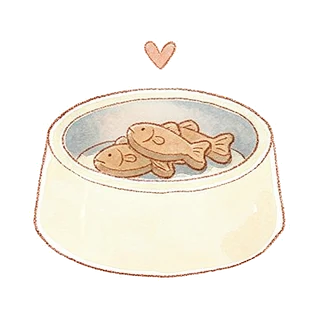
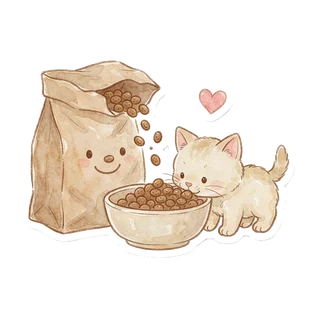
等待页背景图 + 公益磁贴换画 + 换算 100g/元 + 修雨天弹层失踪
- 等待页按用户方向加背景：AI 生成水彩街景（裁水印压 41KB WebP）。
  预演页白渐变+淡街景；等待页白纱减淡；催单卡同铺（白纱压住保可读）
- 真 bug：根元素天气 filter 让 position:fixed 退化成相对整页定位 ——
  雨天催单卡/骑手回话被排到视口外。两弹层改 createPortal 到 body（skill 坑点 70）
- 公益磁贴按用户反馈换画：笑脸粮袋+小猫吃粮+小粉心（tileForge 出 320 透明底）
- 公益换算 10g/元 → 100g/元（用户定）；说明文案与注释同步
- 档案页示例条：大海报缩成「小图+两行说明」条（96px 图），可点开看大图
- check-preview 修探针：lazy 图在 headless 滚动下不触发是常态，
  「坏图」改 fetch 验 HTTP 而非 naturalWidth（skill 坑点 71）

diff --git a/src/styles.css b/src/styles.css
@@ -50,6 +50,22 @@ img { max-width: 100%; display: block; }
   padding-bottom: 96px;
 }
 
+/* 配送等待页：水彩街景背景（用户 2026-09-17 定的方向）。
+   图锚在底部（街道在画面下沿），宽随栏；页比图长时上段露米色渐变，正好是留白。
+   预演页白纱重（只透一点街景 + 白→米渐变），等待页白纱减淡让街景透出来。 */
+.delivery-page {
+  background:
+    linear-gradient(180deg, rgba(253, 252, 249, .96) 0%, rgba(252, 251, 247, .82) 45%, rgba(250, 244, 232, .45) 100%),
+    url('./assets/delivery-street.webp') bottom center / 100% auto no-repeat,
+    linear-gradient(180deg, #fdfcf9, #f7efe1);
+}
+.delivery-page.is-waiting {
+  background:
+    linear-gradient(180deg, rgba(253, 252, 249, .92) 0%, rgba(252, 251, 247, .58) 42%, rgba(250, 244, 232, .2) 100%),
+    url('./assets/delivery-street.webp') bottom center / 100% auto no-repeat,
+    linear-gradient(180deg, #fdfcf9, #f7efe1);
+}
+
 .shop-page.center-content {
   display: flex;
   flex-direction: column;
@@ -1224,7 +1240,10 @@ img { max-width: 100%; display: block; }
   width: calc(100% - 40px);
   max-width: 420px;
   padding: 22px 20px 20px;
-  background: var(--surface);
+  /* 催单卡也铺同一张水彩街景（用户 2026-09-17）：白纱压住保证文字可读 */
+  background:
+    linear-gradient(180deg, rgba(253, 252, 249, .95), rgba(250, 244, 233, .9)),
+    url('./assets/delivery-street.webp') center bottom / 160% auto no-repeat;
   border-radius: 20px;
   box-shadow: 0 12px 40px rgba(74, 69, 64, .18);
   animation: cardUp .3s cubic-bezier(.2, .8, .3, 1) both;
@@ -1550,9 +1569,12 @@ img { max-width: 100%; display: block; }
 .secondary-action { display: inline-flex; align-items: center; gap: 6px; padding: 11px 16px; border-radius: 999px; border: 1px solid var(--caramel); background: transparent; color: var(--caramel); font-size: 13px; }
 .archive-actions .primary-action { display: inline-flex; align-items: center; gap: 6px; padding: 11px 18px; border-radius: 999px; background: var(--primary); color: #fff; font-size: 13px; }
 .archive-note { margin: 0 28px 24px; color: var(--text-sub); font-size: 11px; line-height: 1.6; text-align: center; }
-.archive-example { display: block; width: min(292px, calc(100% - 64px)); padding: 0; margin: 0 auto 17px; border: 0; background: transparent; }
-.archive-example img { display: block; width: 100%; aspect-ratio: 3/4; object-fit: cover; box-shadow: 0 8px 24px rgba(74, 69, 64, .1); }
-.archive-example span { display: block; margin-top: 9px; color: var(--text-sub); font-size: 10px; text-align: center; }
+/* 示例条：缩略图 + 两行说明，不再是一整屏海报（用户原话「放的太大、很突兀」） */
+.archive-example { display: flex; align-items: center; gap: 14px; width: calc(100% - 40px); max-width: 330px; padding: 11px 13px 11px 11px; margin: 0 auto 14px; border: 1px solid var(--divider); border-radius: 12px; background: rgba(252, 251, 247, .58); text-align: left; }
+.archive-example img { flex: 0 0 96px; width: 96px; aspect-ratio: 3/4; object-fit: cover; border-radius: 9px; box-shadow: 0 3px 10px rgba(74, 69, 64, .14); }
+.archive-example-txt { display: flex; flex-direction: column; gap: 4px; min-width: 0; }
+.archive-example-txt b { font: 500 13px/1.3 "Cormorant Garamond", "PingFang SC", serif; color: var(--text-main); }
+.archive-example-txt i { font: 400 10.5px/1.55 "PingFang SC", sans-serif; font-style: normal; color: var(--text-sub); }
 .upload-zone.compact { min-height: 98px; margin: 0 20px 20px; padding: 18px; display: flex; flex-direction: column; align-items: center; justify-content: center; gap: 6px; border: 1px dashed var(--caramel); border-radius: 12px; background: rgba(252, 251, 247, .58); color: var(--text-main); }
 .upload-zone.compact strong { font: 500 16px/1 "Cormorant Garamond", "PingFang SC", serif; }
 .upload-zone.compact span { font-size: 11px; color: var(--text-sub); }

diff --git a/src/screens/DeliveryScreen.jsx b/src/screens/DeliveryScreen.jsx
@@ -1,4 +1,5 @@
 import { useEffect, useMemo, useRef, useState } from 'react'
+import { createPortal } from 'react-dom'
 import { ArrowLeft, Bike, Check, FastForward, Home, Package, ShoppingBag, Truck, X } from 'lucide-react'
 import {
   OFFLINE_TASKS,
@@ -136,7 +137,7 @@ export default function DeliveryScreen({ houseName, onNavigate, order }) {
   const isWaiting = phase === 'waiting'
 
   return (
-    <div className="shop-page" style={{ filter: weather.filter }}>
+    <div className={`shop-page delivery-page${isWaiting ? ' is-waiting' : ''}`} style={{ filter: weather.filter }}>
       <header className="topbar compact">
         <button className="icon-button menu-button" aria-label="返回首页" onClick={() => onNavigate('home')}>
           <ArrowLeft size={25} strokeWidth={1.4} />
@@ -277,8 +278,10 @@ export default function DeliveryScreen({ houseName, onNavigate, order }) {
         </section>
       )}
 
-      {/* 催单卡：不是跳过，是有来有回 */}
-      {exchangeOpen && (
+      {/* 催单卡：不是跳过，是有来有回。
+          ⚠ 必须 portal 到 body：根元素挂着天气 filter，CSS 里 filter 祖先会让
+          position:fixed 退化成相对整页定位 —— 卡片会被排到整页最底部（视口外）。 */}
+      {exchangeOpen && createPortal(
         <div className="exchange-backdrop" role="dialog" aria-label="跟骑手说一句" onClick={() => setExchangeOpen(false)}>
           <div className="exchange-card" onClick={(e) => e.stopPropagation()}>
             <button className="exchange-close" aria-label="关闭" onClick={() => setExchangeOpen(false)}>
@@ -296,15 +299,17 @@ export default function DeliveryScreen({ houseName, onNavigate, order }) {
             </div>
             <p className="exchange-foot">不说也行 —— 陪他走完这一段，路上会多留一份纪念。</p>
           </div>
-        </div>
+        </div>,
+        document.body
       )}
 
-      {/* 骑手回话 */}
-      {exchangeDone && (
+      {/* 骑手回话（同样 portal —— 同一个 filter 坑） */}
+      {exchangeDone && createPortal(
         <div className="exchange-reply" role="status">
           <i aria-hidden="true">{exchangeDone.label}</i>
           <p>{exchangeDone.reply}</p>
-        </div>
+        </div>,
+        document.body
       )}
 
       {weather.key !== 'sunny' && <div className="rain-overlay" aria-hidden="true" />}

diff --git a/src/screens/ArchiveScreen.jsx b/src/screens/ArchiveScreen.jsx
@@ -237,9 +237,13 @@ export default function ArchiveScreen({ onBack, initialView }) {
               {wall.length === 0 && (
                 // 示例图**不再当上传按钮用** —— 那是「想看图却弹出文件选择器」的根源。
                 // 现在点它就是看大图，上传走下面那颗明确的按钮。
+                // 2026-09-17：大海报缩成一枚小示例条 —— 整屏的大图喧宾夺主，跟米纸页面也不搭。
                 <button className="archive-example" onClick={() => setPreview({ mode: 'example' })}>
-                  <img src={archiveExample} alt="抹茶拿铁食物存档示例" />
-                  <span>示例：真实照片与纸本食物插画（点开看大图）</span>
+                  <img src={archiveExample} alt="示例：抹茶拿铁" />
+                  <span className="archive-example-txt">
+                    <b>先看一眼示例</b>
+                    <i>抹茶拿铁 —— 拍下的照片会配一张纸本小记（点开看大图）</i>
+                  </span>
                 </button>
               )}
               <button className="upload-zone compact" onClick={() => inputRef.current?.click()} disabled={busy}>

diff --git a/src/data.js b/src/data.js
@@ -954,7 +954,7 @@ export function pickOne(arr, seed) {
 }
 
 // ===== 公益：慢活猫粮计划 =====
-// 现在规模还小，所以换算比例定得保守：¥1 = 10g 猫粮。
+// 换算比例按市面猫粮价格折算：¥1 = 100g 猫粮（10kg 装 ¥100 上下）。
 // 默认档位只占 30%，不鼓励一次全捐 —— 慢一点，但每一克都记着。
 // ⚠ 措辞红线：这里一律说「记下 / 记」，不说「捐」。
 //    App 没有后端，钱一直在用户手上 —— 记下的是一笔打算，不是一次转账。
@@ -962,7 +962,7 @@ export function pickOne(arr, seed) {
 export const CHARITY = {
   name: '慢活猫粮计划',
   short: '猫粮',
-  gramsPerYuan: 10,      // ¥1 = 10g
+  gramsPerYuan: 100,     // ¥1 = 100g（2026-09-17 用户定：原 10g 太保守）
   gramPerCatDay: 60,     // 一只成年猫一天约 60g
   defaultRatio: 30,      // 默认记订单金额的 30%
   presets: [10, 30, 50, 100],

diff --git a/src/storage.js b/src/storage.js
@@ -139,7 +139,7 @@ export function saveMood(today, mood) {
 // ===== 公益档案：猫粮记录 =====
 // ⚠ 措辞红线：这里记的是「打算捐、还没捐」的账 —— 不是已捐。
 //    「已捐了多少」要等真捐闭环做出来才有（用户自己转账后自己盖的章）。
-// 没有后端，是本地记账 —— 但数字是认真算的（¥1 = 10g）
+// 没有后端，是本地记账 —— 但数字是认真算的（¥1 = 100g）
 const KEY_CHARITY = 'soft-life-charity-v1'
 
 export const DEFAULT_CHARITY = {

diff --git a/.workbuddy/memory/2026-09-17.md b/.workbuddy/memory/2026-09-17.md
@@ -224,3 +224,38 @@ A/B 对照不用改代码：**删/加 `has-ai` 这一个类名**就是旧/新行
 - 全部重跑全绿；`预览截图/存档_点开两步.png`、`存档_改进对照.png` 已用真照片重出（本人目检过）。
 - seedPhoto.mjs + 三个脚本 + archive-sheet.py 已同步进 skill scripts；skill 补坑点 64/65。
 - 提交 `f18d6cb`。另：项目 MEMORY.md 超限（20KB），已压缩到 7.5KB（细节移 skill / 日志）。
+
+## 上午回归 + 删除链路（09:30-09:50）
+
+- 重启预览服务（8080）与无头 Chrome（9222）—— 夜里被关掉了，用 skill 里那两条命令起。
+- 全量回归全绿：health-check / verify-archive / verify-journal-photo / verify-pet-face / verify-pet-pat / check-preview。
+- 发现删除链路**没有断言覆盖**（「删条目必须同时删照片」只写在记忆里）→ 给 verify-archive 补步骤 [11]：
+  二次确认是「上膛」不是直接删；删完断言 手账笔数 0 · IndexedDB 张数 0 · localStorage 无残留缩略图。结果全绿。
+- 探针坑（已进 skill 66）：`el.click()` 后同一 tick 读 innerText 读到旧值（React 状态异步更新），
+  一度误判成「点了没反应」。改成等 `.is-armed` 自己长出来，别 sleep 魔法数字。
+- 提交 `58bdc44`。
+
+## 公益文案改口（09:45-10:30，用户定方向「公益红线修复」）
+
+- 全站清「已捐/捐出/攒下/折算出去」完成时措辞 → 统一「记下」；档案页/磁贴补「还没捐」。
+  唯一保留的「捐」是提醒钱还没走那句（「等你真的去捐」）。提交 `a6eb342`。
+- 验证方式：真机导航到首页磁贴 + 档案页，把 innerText 全部读回来核对（/tmp/check-charity.mjs 一次性探针，未入库）。
+- skill 里 `flow-donate.mjs` 已过期（结局页改版后找不到捐赠卡，报错）——还没修，下次用前先改。
+- **两本账设计（用户提出：以后真运营要真捐、联系高校猫协，想知道捐了多少/占多少）**：
+  ① 个人账（本地）：记下 X · 真捐 Y · 兑现率 Y/X，加「我真去捐了」闭环按钮（日期+克数+给了谁）；
+  ② 小铺公示账：只有运营者真转出去的钱 + 凭证，手动更新。红线：用户的「记下」绝不计入②；
+  「全体用户总量」需后端，没后端就先不做。已给用户画了两本账关系图，待拍板先做①。
+
+## 真捐闭环（10:00-10:10，用户拍板「点进克数看详情 + 现在没捐也可以做」）
+
+- 档案页 hero 克数变按钮 →「这一本账」浮层：记下/真捐出去/还没捐 三行 + 兑现率条 + 真捐记录
+  （给谁/日期/克数/约¥）。表单默认填「还没捐」部分；「捐给了谁」选填（如高校猫协）。
+- `charity.settled` 新数组（storage 白名单合并已兼容旧存档）；`settleCharity` 在 main.jsx。
+- 顺手修真 bug：`.jh-*` 米灰 token 只挂 `.jh/.archive-page`，浮层搬到公益页后 `--jh-paper` 取空
+  → **浮层全透明**。现在 `.jh-detail` 单独挂一份 token（skill 坑点 68）。
+- 断言教训（skill 坑点 69）：Node 模板串里 `/rgba\\(...\\)/` 是字面反斜杠，恒真假绿灯 ——
+  颜色断言要解析 alpha 数字再比。
+- 验收 `tools/verify-charity-settle.mjs` 6 段全绿（含「上膛不落盘」「无已捐出措辞」）。提交 `30618c4`。
+- 交付图：`预览截图/公益_档案页.png`、`公益_真捐明细-表单.png`、`公益_真捐明细-已记两笔.png`。
+- 两本账设计定调：个人账（记下/真捐/兑现率，纯本地）+ 小铺公示账（运营者手动更新，后做）。
+  「全体用户总量」需后端，不做假数。
